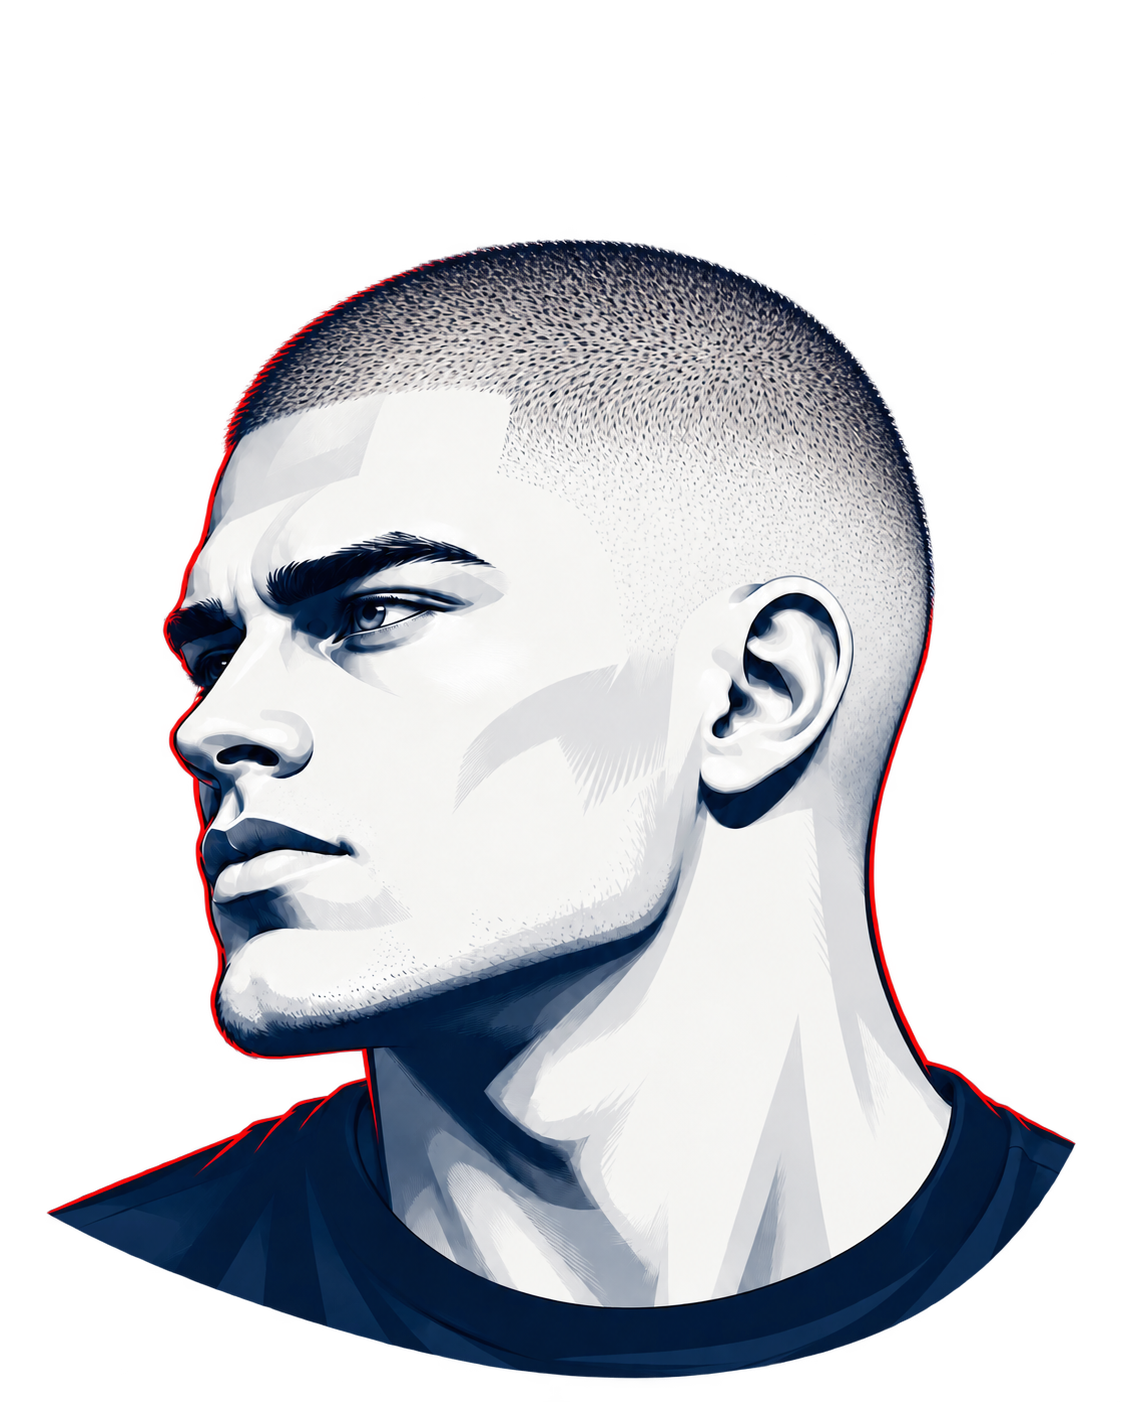
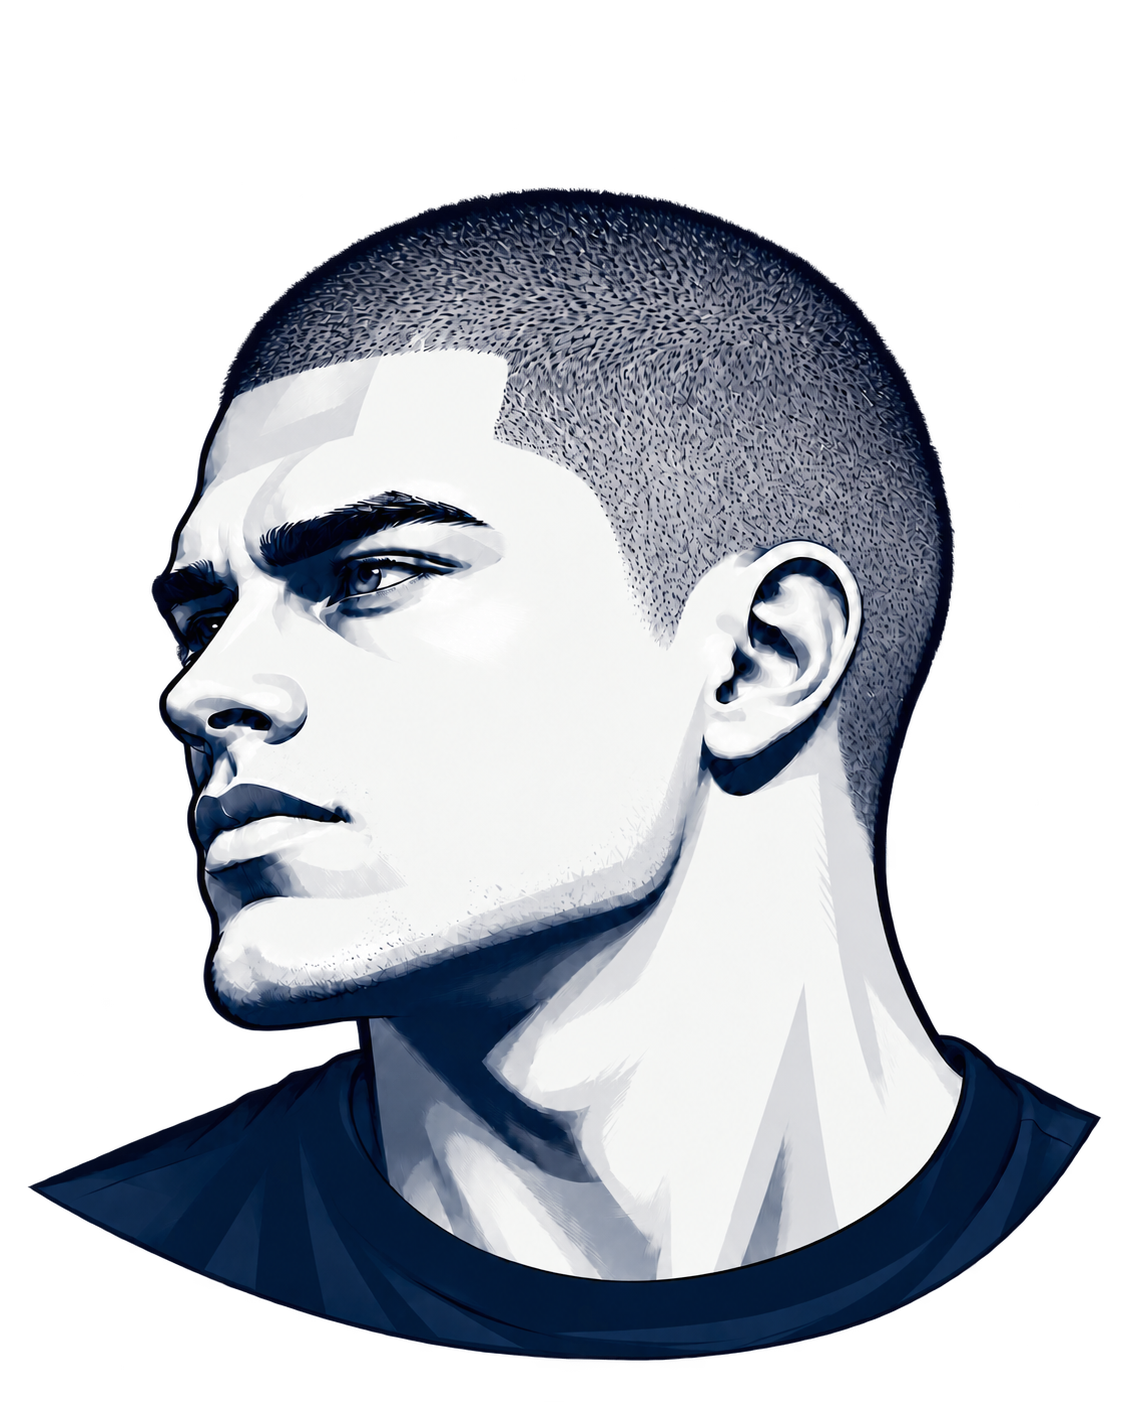
Обновление терминала до v73

Changed region(s): [[0.0312, 0.1227, 0.9982, 0.9815], [0.8422, 0.8588, 0.9358, 0.9201]]

diff --git a/terminal/html/market.html b/terminal/html/market.html
@@ -6,7 +6,7 @@
 <meta http-equiv="X-UA-Compatible" content="IE=edge">
 <meta name="viewport" content="width=device-width, initial-scale=1">
 
-<title>Market</title>
+<title>Наш Супермаркет</title>
 
 <link rel="stylesheet" type="text/css" href="css/style.css">
 <link rel="stylesheet" type="text/css" href="css/market.css" />
@@ -358,74 +358,49 @@ function checkTimer() {
 
 </script>
 
-</head>
+<link href="css/market-v72.css" rel="stylesheet"><script>
+(function () {
+  var BASE_W = 1280;
+  var BASE_H = 1024;
+
+  function calculateTerminalScale() {
+    var vw = window.innerWidth || document.documentElement.clientWidth || BASE_W;
+    var vh = window.innerHeight || document.documentElement.clientHeight || BASE_H;
+
+    // Always fit the complete 1280×1024 terminal inside the visible browser area.
+    // This prevents vertical scrolling and preserves the exact 5:4 proportions.
+    var scale = Math.min(vw / BASE_W, vh / BASE_H);
+
+    // Native terminal remains pixel-perfect 1:1.
+    if (Math.abs(vw - BASE_W) <= 2 && Math.abs(vh - BASE_H) <= 2) {
+      scale = 1;
+    }
+
+    if (!isFinite(scale) || scale <= 0) scale = 1;
+    return scale;
+  }
+
+  function applyTerminalScale() {
+    var scale = calculateTerminalScale();
+    var root = document.documentElement;
+    root.style.setProperty('--terminal-scale', scale.toFixed(4));
+    root.style.setProperty('--terminal-shell-width', (BASE_W * scale).toFixed(2) + 'px');
+    root.style.setProperty('--terminal-shell-height', (BASE_H * scale).toFixed(2) + 'px');
+    root.classList.add('terminal-scale-ready');
+  }
+
+  window.fitTerminalStage = applyTerminalScale;
+  applyTerminalScale();
+  window.addEventListener('resize', applyTerminalScale);
+  window.addEventListener('orientationchange', applyTerminalScale);
+})();
+</script></head>
 
 
-<body onload="initPage(); DispatcherWebSocket();">
-<div class="logo_market"></div>
-<!-- Main Container -->
-<div class="container"> 
-  <!-- Stats Gallery Section -->
-	<div class="center1">
-		<div class="market_filter">
-			<div id="Estel" onclick="applyFilter('Estel');" class="market_filter_btn">Estel</div>
-			<div id="Tefia" onclick="applyFilter('Tefia');" class="market_filter_btn">Tefia</div>
-<!--			<div id="WhiteCosmetics" onclick="applyFilter('WhiteCosmetics');" class="market_filter_btn">White Cosmetics</div>-->
-		</div>
-	</div>
-
-	<div class="market_content">
-		<div class="block_menu_container">
-			<div class="block_menu selected" id="menu_shampoo" onclick="selectMenuItem('shampoo')">
-				<div class="market_icon market-shampoo"></div>
-				<div class="block_menu_label">Шампуни и Уход</div>
-			</div>
-			<div class="block_menu" id="menu_styling" onclick="selectMenuItem('styling')">
-				<div class="market_icon market-hair-gel"></div>
-				<div class="block_menu_label">Стайлинг</div>
-			</div>
-			<div class="block_menu" id="menu_shaving" onclick="selectMenuItem('shaving')">
-				<div class="market_icon market-shaving"></div>
-				<div class="block_menu_label">Бритье и уход</div>
-			</div>
-			<div class="block_menu" id="menu_other" onclick="selectMenuItem('other')" hidden>
-				<div class="market_icon market-other"></div>
-				<div class="block_menu_label">Прочее</div>
-			</div>
-
-<!--			<button onclick="handleCashmachineEvent('escrow', 10000);">+100e</button>-->
-<!--			<button onclick="handleCashmachineEvent('banknote', 10000);">+100s</button>-->
-		</div>
-
-		<div class="market_block" id="block_shampoo"></div>
-		<div class="market_block hidden" id="block_styling"></div>
-		<div class="market_block hidden" id="block_shaving"></div>
-		<div class="market_block hidden" id="block_other"></div>
-
-	</div>
-
-  <div class="footer1">
-    <div class="footersum market_sum">
-      <stitog1>К ОПЛАТЕ:&nbsp;&nbsp;<stsum1 id="paymentCost">0</stsum1><span class="currency">q</span></stitog1>
-    </div>  
-    <div class="footersum market_sum">
-      <stitog1>ВНЕСЕНО:&nbsp;&nbsp;<stsum1 id="paymentSumm">0</stsum1><span class="currency">q</span></stitog1>
-    </div>
-    <div class="footersum market_sum">
-      <stitog1>СДАЧА:&nbsp;&nbsp;<stsum1 id="paymentChange">0</stsum1><span class="currency">q</span></stitog1>
-    </div>
-  </div>
-  <div class="line_buttons">
-    <button class="thumb1 payment_market" id="btn_back" onclick="document.location.href = 'index.html';" class="footer_back" /><div class="thumb1text opl font_30">НАЗАД</div>
-    <button class="thumb1 payment_market pay_by_card" disabled="true" id="btn_by_card" onclick="payByCard();"><div class="thumb1text opl font_30">КАРТОЙ</div></button>
-    <button class="thumb1 payment_market pay_by_sbp" disabled="true" id="btn_by_sbp" onclick="payBySbp();"><div class="thumb1text opl font_30 ">СБП</div></button>
-    <button class="thumb1 payment_market" id="btn_pay" disabled="true" onclick="pay();" class="footer_opl" /><div class="thumb1text opl font_30">ОПЛАТИТЬ</div>
-  </div>
-</div>
-<!-- Main Container Ends -->
-
-
-<!-- modal window -->
+<body class="market-v72" onload="initPage(); DispatcherWebSocket();fitTerminalStage();"><div class="terminal-shell"><div class="terminal-stage"><main class="shop-app">
+<header class="shop-header"><h1>НАШ СУПЕРМАРКЕТ</h1><div class="shop-brands"><span>Бренд:</span><button id="Estel" onclick="applyFilter('Estel');" class="market_filter_btn">ESTEL</button><button id="Tefia" onclick="applyFilter('Tefia');" class="market_filter_btn">TEFIA</button></div></header>
+<nav class="shop-tabs" aria-label="Категории товаров"><button class="block_menu selected" id="menu_shampoo" onclick="selectMenuItem('shampoo')">Шампуни и уход</button><button class="block_menu " id="menu_styling" onclick="selectMenuItem('styling')">Стайлинг</button><button class="block_menu " id="menu_shaving" onclick="selectMenuItem('shaving')">Бритьё и уход</button><button class="block_menu " id="menu_other" onclick="selectMenuItem('other')">Прочее</button></nav><section class="shop-catalog" aria-label="Товары"><div class="market_block " id="block_shampoo"></div><div class="market_block hidden" id="block_styling"></div><div class="market_block hidden" id="block_shaving"></div><div class="market_block hidden" id="block_other"></div></section><section class="shop-totals"><div class="shop-total">К ОПЛАТЕ <strong><span id="paymentCost">0</span> ₽</strong></div><div>ВНЕСЕНО <strong><span id="paymentSumm">0</span> ₽</strong></div><div>СДАЧА <strong><span id="paymentChange">0</span> ₽</strong></div></section>
+<footer class="shop-payments"><button id="btn_back" onclick="document.location.href='index.html';">НАЗАД</button><button id="btn_by_card" disabled onclick="payByCard();">КАРТОЙ</button><button id="btn_by_sbp" disabled onclick="payBySbp();">СБП</button><button id="btn_pay" disabled onclick="pay();">ОПЛАТИТЬ</button></footer></main></div></div><!-- modal window -->
 <div id="boxes">
 
 	<!-- not have a change dialog -->
@@ -471,5 +446,4 @@ function checkTimer() {
 </div>
 
 
-</body>
-</html>
+</body></html>

diff --git a/terminal/html/css/market-v72.css b/terminal/html/css/market-v72.css
@@ -1,0 +1,43 @@
+
+:root{--terminal-scale:1;--terminal-shell-width:1280px;--terminal-shell-height:1024px}
+html,body.market-v72{width:100%;height:100%;margin:0;overflow:hidden;background:#142c5d}
+body.market-v72{display:flex;align-items:center;justify-content:center;cursor:default;color:#142c5d;font-family:Arial,sans-serif;touch-action:manipulation}
+.market-v72 *{box-sizing:border-box}
+.terminal-shell{width:var(--terminal-shell-width);height:var(--terminal-shell-height);position:relative;overflow:hidden;flex:0 0 auto}
+.terminal-stage{width:1280px;height:1024px;transform:scale(var(--terminal-scale));transform-origin:top left}
+.shop-app{width:1280px;height:1024px;padding:22px 28px 20px;display:grid;grid-template-rows:64px 76px minmax(0,1fr) 78px 86px;gap:16px}
+.shop-header{display:flex;align-items:center;justify-content:space-between;color:white}
+.shop-header h1{font:38px/1 Molot,Arial,sans-serif;margin:0}
+.shop-brands{display:flex;align-items:center;gap:12px;font-size:22px}
+.market-v72 .market_filter_btn{height:54px;margin:0;width:130px;padding:8px 18px;border:2px solid white;border-radius:12px;background:transparent;color:white;display:flex;align-items:center;justify-content:center;font:26px/1 Molot,Arial,sans-serif;cursor:pointer}
+.market-v72 .market_filter_btn.selected{background:#ef3f43;border-color:#ef3f43}
+.shop-tabs{display:grid;grid-template-columns:1.4fr 1fr 1.4fr .8fr;gap:14px}
+.market-v72 .block_menu{width:auto;height:76px;margin:0;border:2px solid #fff;border-radius:14px;background:#fff;color:#142c5d;font:28px/1.1 Molot,Arial,sans-serif;display:flex;align-items:center;justify-content:center;padding:12px;cursor:pointer}
+.market-v72 .block_menu.selected{background:#ef3f43;color:white;border-color:#ef3f43}
+.shop-catalog{min-height:0;overflow:hidden}
+.market-v72 .market_block{width:100%;height:100%;margin:0;padding:0 10px 0 0;background:transparent;border-radius:0;overflow-y:auto;display:grid;grid-template-columns:repeat(4,minmax(0,1fr));grid-auto-rows:344px;align-content:start;gap:14px;scrollbar-width:thin;scrollbar-color:#ef3f43 #294372;overscroll-behavior:contain}
+.market-v72 .market_block.hidden{display:none}
+.market-v72 .market_cell{float:none;position:relative;width:auto;height:344px;margin:0;padding:142px 14px 14px;border:3px solid white;border-radius:16px;background-color:#fff;background-position:center 10px;background-size:130px 130px;display:flex;flex-direction:column;gap:8px;overflow:hidden}
+.market-v72 .market_cell.selected{border-color:#ef3f43}
+.market-v72 .market_label{width:100%;height:auto;min-height:66px;margin:0;padding:0;background:none;color:#142c5d;display:flex;align-items:center;justify-content:center;font:22px/1.15 Molot,Arial,sans-serif;text-align:center}
+.market-v72 .market_label.selected{background:none;color:#142c5d}
+.market-v72 .market_cost{width:100%;height:36px;font:34px/1 Molot,Arial,sans-serif;color:#ef3f43}
+.market-v72 .market_controls{display:grid;grid-template-columns:64px 1fr 64px;gap:8px;margin-top:auto;align-items:center}
+.market-v72 .market_btn{float:none;width:64px;height:58px;margin:0;padding:0;border:0;border-radius:10px;background:#ef3f43;color:#fff;font:40px/1 Arial,sans-serif;cursor:pointer}
+.market-v72 .market_btn_minus{background:#eaf0f8;color:#142c5d}
+.market-v72 .market_numbox{float:none;width:auto;height:58px;margin:0;border:2px solid #dce3ee;border-radius:10px;display:flex;align-items:center;justify-content:center;font:30px/1 Molot,Arial,sans-serif}
+.shop-totals{background:#fff;border-radius:14px;display:grid;grid-template-columns:1.4fr 1fr 1fr;align-items:center;padding:14px 24px;gap:20px;font:21px/1 Molot,Arial,sans-serif}
+.shop-totals>div{display:flex;align-items:center;justify-content:space-between;gap:12px}
+.shop-totals strong{font:32px/1 Molot,Arial,sans-serif;white-space:nowrap}
+.shop-total strong{color:#ef3f43;font-size:40px}
+.shop-payments{display:grid;grid-template-columns:1fr 1fr 1fr 1.25fr;gap:14px}
+.shop-payments button{border:0;border-radius:14px;background:white;color:#142c5d;font:30px/1 Molot,Arial,sans-serif;cursor:pointer}
+.shop-payments #btn_pay{background:#ef3f43;color:white}
+.shop-payments button:disabled{opacity:.4;cursor:default}
+.market-v72 button:focus-visible{outline:3px solid #ef3f43;outline-offset:3px}
+.market-v72 .window{border-radius:18px;background:white;color:#142c5d}
+.market-v72 .modal_button{background:#ef3f43;border-radius:12px;color:white}
+.market-v72 .market_block{grid-auto-rows:300px}
+.market-v72 .market_cell{height:300px;padding:116px 12px 10px;background-size:106px 106px;background-position:center 6px;gap:4px}
+.market-v72 .market_label{min-height:62px;font-size:22px}
+.market-v72 .market_cost{height:34px;font-size:32px}

diff --git a/terminal/html/index.html b/terminal/html/index.html
@@ -151,7 +151,7 @@
           <div class="service-info-strip">
             <h2 id="haircut_a_name"></h2>
             <strong><span id="haircut_a_cost">0</span> <span class="rub">₽</span></strong>
-            <p class="service-description">Короткая стрижка машинкой</p>
+            <p class="service-description">Машинкой под одну насадку</p>
           </div>
         </button>
 
@@ -163,7 +163,7 @@
           <div class="service-info-strip">
             <h2 id="haircut_e_name"></h2>
             <strong><span id="haircut_e_cost">0</span> <span class="rub">₽</span></strong>
-            <p class="service-description">Любая форма с плавным переходом</p>
+            <p class="service-description">Любая форма с переходом</p>
           </div>
         </button>
       </div>

diff --git a/terminal/html/css/home-v3.css b/terminal/html/css/home-v3.css
@@ -643,7 +643,7 @@ html,body{overflow:hidden}
   box-shadow:0 12px 28px rgba(9,25,60,.12) !important;
 }
 .service-image-wrap{
-  background:#f8f6f1 !important;
+  background:#fff !important;
   border-bottom:0 !important;
 }
 #haircut_a .service-image-wrap img,
